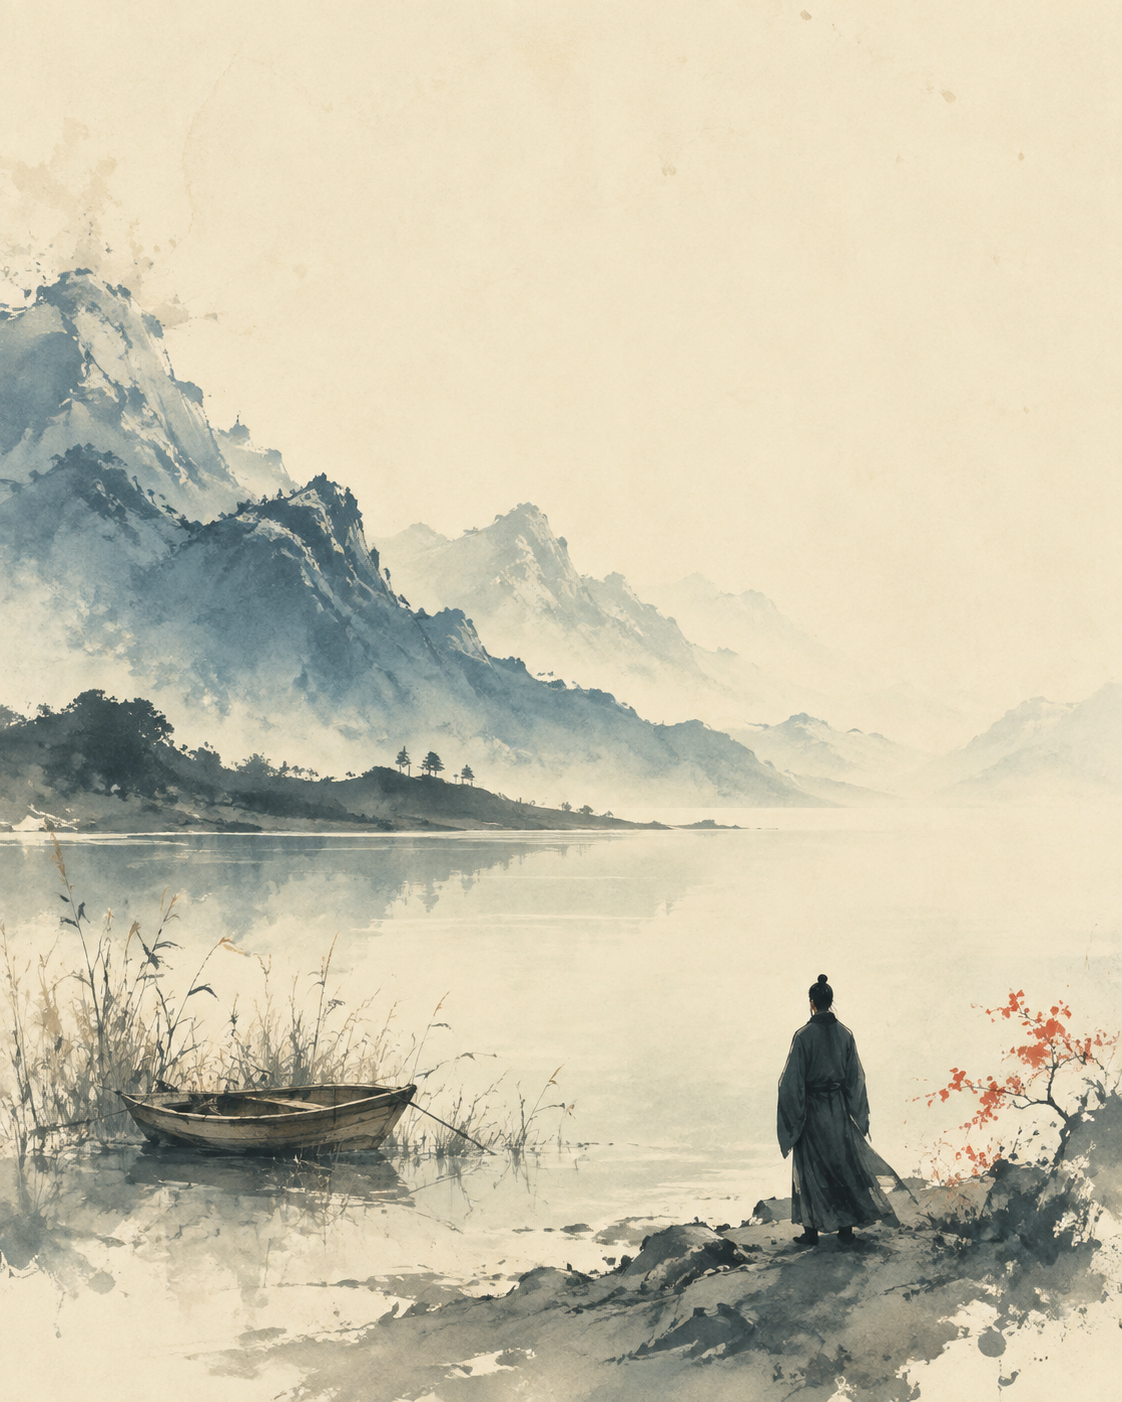
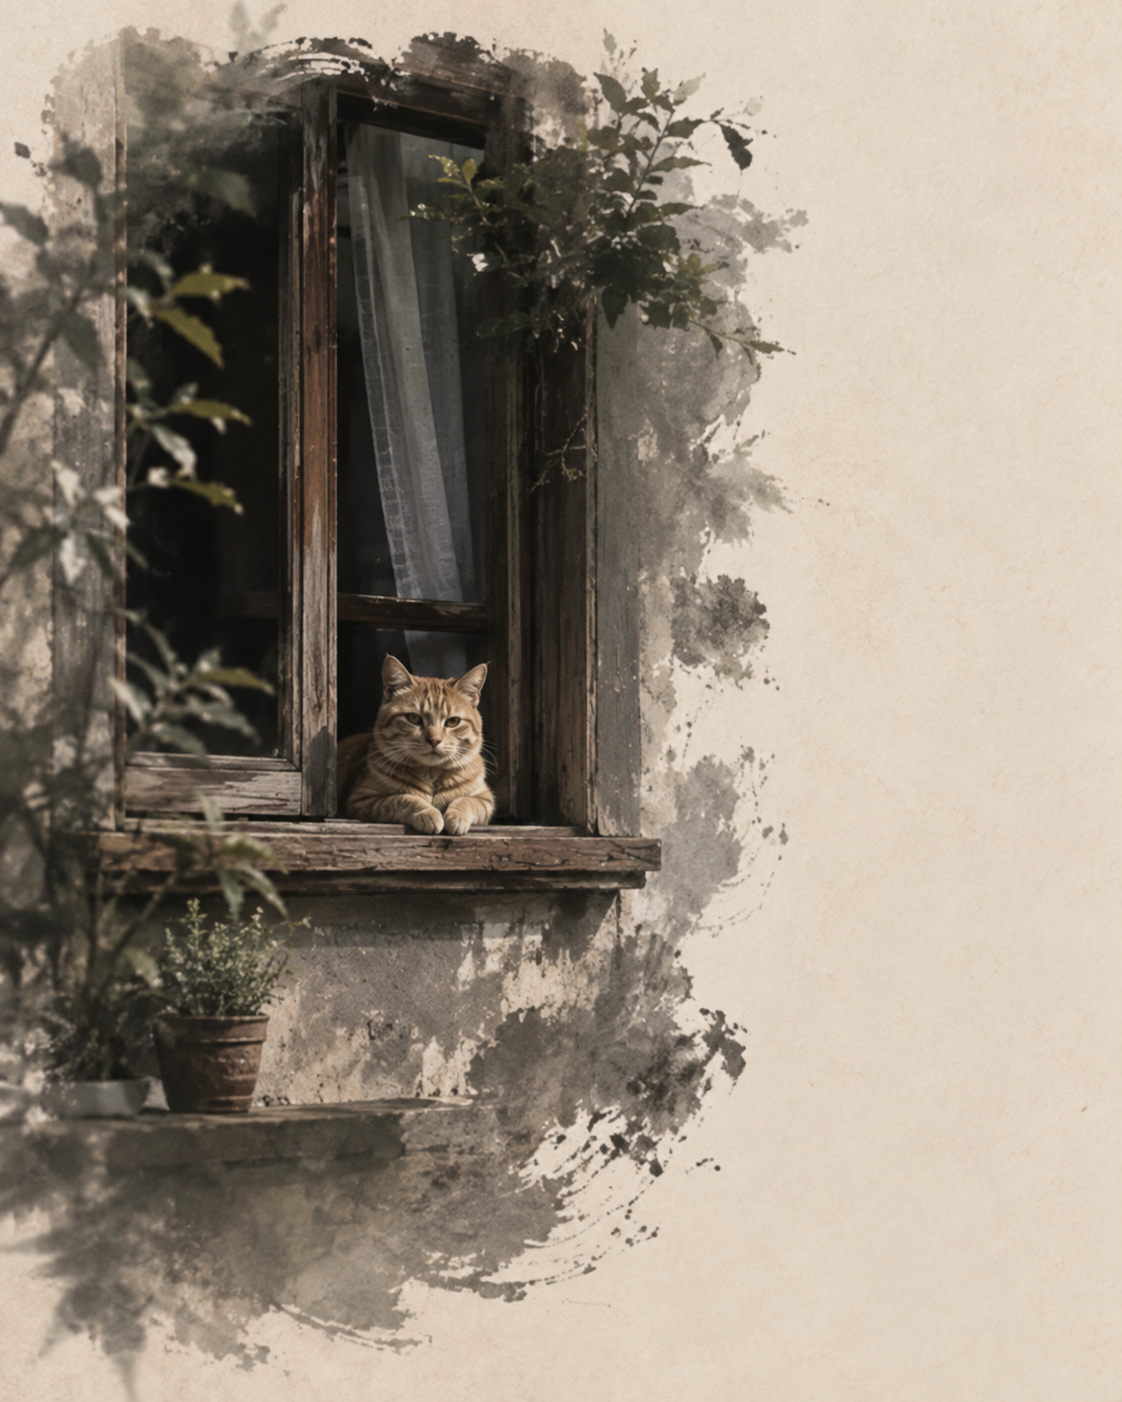
fix: preserve real photos in Guofeng profile

diff --git a/src/moments_to_pages/expression_profiles.py b/src/moments_to_pages/expression_profiles.py
@@ -386,29 +386,31 @@ CHINESE_PHOTO_EDITORIAL: dict[str, Any] = {
 }
 
 CHINESE_INK_POETRY: dict[str, Any] = {
-    "render_mode": "full-redraw",
-    "output_medium": "contemporary Chinese ink-and-paper poem image",
+    "render_mode": "photo-anchor-ink-transition",
+    "output_medium": "contemporary Chinese photographic ink-and-paper poem image",
     "design_tokens": {
         "palette": ["warm-paper", "ink-black", "mist-gray", "seal-red"],
-        "composition": {"negative_space": "high", "asymmetry": "high", "focal_subject": "source-locked"},
+        "composition": {"negative_space": "high", "asymmetry": "high", "photographic_anchor": "55-70%", "focal_subject": "source-locked"},
         "texture": {"paper": "xuan-inspired", "ink_bleed": "controlled", "wash_edges": "varied"},
         "typography": {"orientation": ["vertical", "horizontal"], "caption_density": "low", "source": "user-supplied"},
     },
     "subject_fidelity": [
-        "Repaint the supplied photo as one coherent ink-and-color-wash scene while preserving the recognizable subject, pose, architecture, horizon, and spatial evidence.",
+        "Keep the recognizable subject, pose, window, furniture, architecture, and the user's actual home or location photographic; preserve their identity, perspective, scale, light, and spatial relationships.",
     ],
     "transformation_policy": [
-        "Use ink wash, light color wash, rice-paper texture, and restrained brush structure across the scene; transform medium, not identity or event.",
+        "Keep the source photograph as the dominant visual anchor and transform only selected peripheral regions into ink wash, light color wash, dry brush, and warm paper.",
+        "Derive every ink passage from the supplied room, wall, window shadow, plant, landscape, or other visible source evidence; do not replace the user's setting with an invented Chinese landscape.",
         "The poem or title is a user-supplied caption rendered later by the deterministic presentation layer, never invented or rasterized by the image model.",
     ],
     "composition": [
-        "Build a calm vertical scroll-like composition with one source-derived focal scene, large reserved paper space, asymmetrical brush mass, and a single restrained vermilion accent only when present in the brief.",
+        "Build one integrated photographic field whose outer edges dissolve organically into ink and warm paper; retain roughly 55–70% legible photographic evidence and avoid a rectangular pasted-photo boundary.",
+        "Use large quiet paper space, asymmetrical brush mass, and a single restrained vermilion accent only when explicitly requested.",
         "Let the supplied caption occupy the requested quiet text zone; do not crowd the image with ornaments.",
     ],
-    "lighting": ["Translate source light into ink density and transparent color washes while retaining its direction and atmospheric depth."],
-    "material": ["Use fibrous warm paper, pooled ink edges, dry-brush texture, transparent mineral color, and selective unfinished paper; avoid glossy digital gradients."],
-    "exclusions": ["No generated poem, pseudo-Chinese glyphs, invented historical quotations, famous-poet attribution, imperial costume, dragons, clouds, gold ornament, or named-artist imitation."],
-    "output": ["Return a single finished Chinese ink-poetry image with no visible text; the user-supplied poem is added afterward as deterministic typography."],
+    "lighting": ["Preserve the source light on the photographic subject and continue that same direction through ink density and transparent washes."],
+    "material": ["Keep photographic fur, skin, fabric, wood, wall, and architectural texture where identity and place live; transition only selected edges into fibrous warm paper, pooled ink, dry brush, and transparent wash."],
+    "exclusions": ["No full-scene repaint, photo cutout, rectangular collage frame, unrelated mountains, invented bamboo forest, generated poem, pseudo-Chinese glyphs, historical quotation attribution, imperial costume, dragons, clouds, gold ornament, or named-artist imitation."],
+    "output": ["Return one integrated photo-and-ink image with no visible text; the real subject and its own setting must remain recognizable, and the user-supplied poem is added afterward as deterministic typography."],
 }
 
 SELECTIVE_MATERIAL_RELIEF: dict[str, Any] = {

diff --git a/tests/test_prompt_compiler.py b/tests/test_prompt_compiler.py
@@ -242,7 +242,10 @@ def test_new_systems_and_profiles_have_distinct_director_rules(tmp_path: Path):
 
     ink_poetry = compile_manifest(cards, "journey-taxonomy", source_root=tmp_path, expression_profile="chinese-ink-poetry")
     ink_prompt = ink_poetry["prompts"][0]["compiled_prompt"]
-    assert "contemporary Chinese ink-and-paper poem image" in ink_prompt
+    assert "contemporary Chinese photographic ink-and-paper poem image" in ink_prompt
+    assert "dominant visual anchor" in ink_prompt
+    assert "actual home or location photographic" in ink_prompt
+    assert "No full-scene repaint" in ink_prompt
     assert "user-supplied poem" in ink_prompt
     assert "no visible text" in ink_prompt
 

diff --git a/README.md b/README.md
@@ -55,11 +55,11 @@ Check compatible combinations with `scene-card-studio profiles`. The compiler re
 
 ## After-only Director Gallery · v0.7
 
-The public showcase leads with the finished After image. These four new cases are designed to make the visual difference obvious: a real subject with a relief environment, a restrained ink-and-paper editorial, a sparse travel-zine page, and a Guofeng ink-poetry image with deterministic verse typography. Older Before/After evidence cases remain below and are not deleted.
+The public showcase leads with the finished After image. These four new cases are designed to make the visual difference obvious: a real subject with a relief environment, a restrained ink-and-paper editorial, a sparse travel-zine page, and a source-faithful Guofeng photo whose real subject and home dissolve selectively into ink before deterministic verse typography is added. Older Before/After evidence cases remain below and are not deleted.
 
 | Selective Material Relief | Chinese Photo Editorial | Travel Zine | Chinese Ink Poetry |
 | --- | --- | --- | --- |
-| [![Real boat with relief mountains](examples/cases/v0.7-director-gallery/after/selective-material-relief.png)](examples/cases/v0.7-director-gallery/after/selective-material-relief.png) | [![Ink-and-paper coastal photo editorial](examples/cases/v0.7-director-gallery/after/chinese-photo-editorial.png)](examples/cases/v0.7-director-gallery/after/chinese-photo-editorial.png) | [![Sparse travel zine railway image](examples/cases/v0.7-director-gallery/after/travel-zine.png)](examples/cases/v0.7-director-gallery/after/travel-zine.png) | [![Chinese ink landscape with poem](examples/cases/v0.7-director-gallery/after/chinese-ink-poetry-presented.svg)](examples/cases/v0.7-director-gallery/after/chinese-ink-poetry-presented.svg) |
+| [![Real boat with relief mountains](examples/cases/v0.7-director-gallery/after/selective-material-relief.png)](examples/cases/v0.7-director-gallery/after/selective-material-relief.png) | [![Ink-and-paper coastal photo editorial](examples/cases/v0.7-director-gallery/after/chinese-photo-editorial.png)](examples/cases/v0.7-director-gallery/after/chinese-photo-editorial.png) | [![Sparse travel zine railway image](examples/cases/v0.7-director-gallery/after/travel-zine.png)](examples/cases/v0.7-director-gallery/after/travel-zine.png) | [![Photographic cat and home transitioning into Chinese ink with poem](examples/cases/v0.7-director-gallery/after/chinese-ink-poetry-presented.svg)](examples/cases/v0.7-director-gallery/after/chinese-ink-poetry-presented.svg) |
 
 [Open the v0.7 After-only gallery and asset records](examples/cases/v0.7-director-gallery/README.md)
 
@@ -75,9 +75,9 @@ These are the most visually distinctive finished images in the repository. The c
 
 #### Chinese Ink Poetry · Guofeng
 
-Use `chinese-ink-poetry` when the desired result is explicitly Chinese/Guofeng: repaint the supplied photo in ink and rice-paper language, then add a user-supplied poem or short caption as deterministic vertical typography.
+Use `chinese-ink-poetry` when the desired result is explicitly Chinese/Guofeng: keep the photographed subject and the user's own setting recognizable, let only source-derived peripheral regions dissolve into ink and warm paper, then add a user-supplied poem or short caption as deterministic vertical typography.
 
-[![Chinese ink landscape with poem overlay](examples/cases/v0.7-director-gallery/after/chinese-ink-poetry-presented.svg)](examples/cases/v0.7-director-gallery/after/chinese-ink-poetry-presented.svg)
+[![Photographic cat at its home window with source-derived ink treatment and poem overlay](examples/cases/v0.7-director-gallery/after/chinese-ink-poetry-presented.svg)](examples/cases/v0.7-director-gallery/after/chinese-ink-poetry-presented.svg)
 
 ## Before / After
 

diff --git a/README.zh-CN.md b/README.zh-CN.md
@@ -55,11 +55,11 @@ scene-card-studio direct photos/portrait.jpg \
 
 ## v0.7 After-only 视觉导演画廊
 
-首页先展示完成后的 After，不再要求公开展示 Before/After 对照。四组新案例分别强调真实主体与环境浮雕、克制水墨纸张编辑、留白充足的旅行 Zine，以及带确定性诗句排版的国风水墨成片。旧的 Before/After 证据案例仍保留在下方，没有删除。
+首页先展示完成后的 After，不再要求公开展示 Before/After 对照。四组新案例分别强调真实主体与环境浮雕、克制水墨纸张编辑、留白充足的旅行 Zine，以及保留真实主体和自家环境、再让画面边缘过渡成水墨并叠加诗句的国风照片。旧的 Before/After 证据案例仍保留在下方，没有删除。
 
 | Selective Material Relief｜选择性材质浮雕 | Chinese Photo Editorial｜水墨摄影编辑 | Travel Zine｜旅行 Zine | Chinese Ink Poetry｜国风诗意水墨 |
 | --- | --- | --- | --- |
-| [![真实小船与浮雕山体](examples/cases/v0.7-director-gallery/after/selective-material-relief.png)](examples/cases/v0.7-director-gallery/after/selective-material-relief.png) | [![水墨纸张海岸摄影编辑](examples/cases/v0.7-director-gallery/after/chinese-photo-editorial.png)](examples/cases/v0.7-director-gallery/after/chinese-photo-editorial.png) | [![留白旅行 Zine 铁路画面](examples/cases/v0.7-director-gallery/after/travel-zine.png)](examples/cases/v0.7-director-gallery/after/travel-zine.png) | [![国风水墨山湖与诗句](examples/cases/v0.7-director-gallery/after/chinese-ink-poetry-presented.svg)](examples/cases/v0.7-director-gallery/after/chinese-ink-poetry-presented.svg) |
+| [![真实小船与浮雕山体](examples/cases/v0.7-director-gallery/after/selective-material-relief.png)](examples/cases/v0.7-director-gallery/after/selective-material-relief.png) | [![水墨纸张海岸摄影编辑](examples/cases/v0.7-director-gallery/after/chinese-photo-editorial.png)](examples/cases/v0.7-director-gallery/after/chinese-photo-editorial.png) | [![留白旅行 Zine 铁路画面](examples/cases/v0.7-director-gallery/after/travel-zine.png)](examples/cases/v0.7-director-gallery/after/travel-zine.png) | [![真实猫与自家窗台逐渐过渡为水墨并配诗句](examples/cases/v0.7-director-gallery/after/chinese-ink-poetry-presented.svg)](examples/cases/v0.7-director-gallery/after/chinese-ink-poetry-presented.svg) |
 
 [打开 v0.7 After-only 画廊与资产记录](examples/cases/v0.7-director-gallery/README.md)
 
@@ -75,9 +75,9 @@ scene-card-studio direct photos/portrait.jpg \
 
 #### Chinese Ink Poetry｜国风诗意
 
-如果你要的是明确的国风照片成片，使用 `chinese-ink-poetry`：先把照片统一转成水墨与宣纸视觉，再把用户提供的诗句或短文案用确定性的竖排文字层叠加。诗句不会交给图像模型生成。
+如果你要的是明确的国风照片成片，使用 `chinese-ink-poetry`：猫、人、窗台、家具和自己家的空间仍是可辨认的真实照片，只让照片边缘以及来源于原场景的墙面、植物、窗影等区域逐渐过渡成水墨与宣纸，再把用户提供的诗句或短文案用确定性的竖排文字层叠加。不会凭空换成山水背景，诗句也不会交给图像模型生成。
 
-[![水墨山湖与诗句叠加](examples/cases/v0.7-director-gallery/after/chinese-ink-poetry-presented.svg)](examples/cases/v0.7-director-gallery/after/chinese-ink-poetry-presented.svg)
+[![真实猫与自家窗台逐渐过渡为水墨并配诗句](examples/cases/v0.7-director-gallery/after/chinese-ink-poetry-presented.svg)](examples/cases/v0.7-director-gallery/after/chinese-ink-poetry-presented.svg)
 
 ## Before / After 首页案例
 

diff --git a/skills/scene-card-studio/SKILL.md b/skills/scene-card-studio/SKILL.md
@@ -25,7 +25,7 @@ Build a visual story from the user's photographs without imitating a named artis
    - `journey-taxonomy` when the goal is to classify visible place elements by semantic role. Keep one dominant place image, omit absent categories, use no duplicated inset photo, sticker column, connector line, or copied reference composition;
    - `street-reportage` for observed public gestures and environmental context;
    - `fashion-editorial` for pose, garment construction, movement, and shot-scale rhythm.
-   - v0.7 profiles add `travel-zine` (restrained source-bound travel page), `chinese-photo-editorial` (contemporary ink-and-paper photo treatment without invented motifs), and `selective-material-relief` (real photographic subject with an environment-only relief transformation). `chinese-ink-poetry` is the explicit Guofeng option: repaint the supplied scene in ink/paper language and place only the user's supplied poem or caption in the deterministic typography layer. These are visual expression profiles, not new Narrative Systems.
+   - v0.7 profiles add `travel-zine` (restrained source-bound travel page), `chinese-photo-editorial` (contemporary ink-and-paper photo treatment without invented motifs), and `selective-material-relief` (real photographic subject with an environment-only relief transformation). `chinese-ink-poetry` is the explicit Guofeng option: keep the real subject and the user's own setting photographic, dissolve only source-derived peripheral regions into ink/paper, and place only the user's supplied poem or caption in the deterministic typography layer. These are visual expression profiles, not new Narrative Systems.
    Run `scene-card-studio profiles --system SYSTEM_ID` when available, and use only a Profile listed for the selected system.
 6. Choose the source mode before choosing the output tier:
    - **Single-photo mode**: select one compatible Narrative System and Expression Profile, then produce exactly one standalone After for the supplied Before. Do not require a sequence and do not substitute a border, contact sheet, page mockup, or decorative collage for transformation.

diff --git a/examples/cases/v0.7-director-gallery/README.md b/examples/cases/v0.7-director-gallery/README.md
@@ -7,7 +7,9 @@ This gallery is intentionally After-only for public presentation. The four image
 | [Selective Material Relief](after/selective-material-relief.png) | Memory Atlas | `selective-material-relief` | real photographic boat + environment-only shallow relief |
 | [Chinese Photo Editorial](after/chinese-photo-editorial.png) | Minimal Editorial | `chinese-photo-editorial` | restrained ink/paper atmosphere with a photographic anchor |
 | [Travel Zine](after/travel-zine.png) | Travel Journal | `travel-zine` | one source-bound journey node, sparse route line, quiet paper field |
-| [Chinese Ink Poetry](after/chinese-ink-poetry-presented.svg) | Memory Atlas | `chinese-ink-poetry` | full Guofeng ink repaint with user-supplied poem overlay |
+| [Chinese Ink Poetry](after/chinese-ink-poetry-presented.svg) | Memory Atlas | `chinese-ink-poetry` | real photographic cat and its home remain legible while source-derived edges dissolve into ink; user-supplied poem overlay |
+
+The previously published full-redraw study remains available as [Chinese Ink Poetry · full-redraw study](after/chinese-ink-poetry-full-redraw-presented.svg), but it is no longer the behavior represented by `chinese-ink-poetry`.
 
 These are original repository examples. They use general visual mechanisms and do not imitate a named artist, studio, publication, or third-party project's protected assets or layout.
 

diff --git a/skills/scene-card-studio/references/systems-and-profiles.md b/skills/scene-card-studio/references/systems-and-profiles.md
@@ -45,7 +45,7 @@ Choose a Narrative System for how the photographs are read. Choose an Expression
 | `travel-zine` | Memory Atlas, Family Chronicle, Travel Journal, Journey Taxonomy | restrained source-bound travel page with one memory node, sparse route evidence, and generous whitespace |
 | `chinese-photo-editorial` | Quiet Editorial, Memory Atlas, Family Chronicle, Museum Catalogue | contemporary ink-and-paper photo editorial; motifs are source-supported or explicitly requested, never automatic |
 | `selective-material-relief` | Memory Atlas, Family Chronicle, Travel Journal, Journey Taxonomy | real photographic subject remains intact while only the authorized environment becomes a continuous shallow relief |
-| `chinese-ink-poetry` | Quiet Editorial, Memory Atlas, Family Chronicle, Museum Catalogue, Travel Journal, Journey Taxonomy | explicit Guofeng ink-and-paper repaint with user-supplied poem/caption applied later as deterministic typography |
+| `chinese-ink-poetry` | Quiet Editorial, Memory Atlas, Family Chronicle, Museum Catalogue, Travel Journal, Journey Taxonomy | real photographic subject and actual setting dissolve selectively into source-derived ink/paper, with user-supplied poem/caption applied later as deterministic typography |
 
 `full-watercolor-memory` remains a Memory Atlas compatibility alias for `watercolor-chronicle`.
 

diff --git a/skills/scene-card-studio/references/prompt-compiler.md b/skills/scene-card-studio/references/prompt-compiler.md
@@ -21,7 +21,7 @@ For `memory-atlas`, choose deliberately:
 - `travel-zine` creates a sparse source-bound travel page; it may use only supplied route, date, location, ticket, map, paper, or handwriting evidence.
 - `selective-material-relief` keeps the main subject photographic and transforms only an authorized environment into a continuous relief, with source light and perspective preserved.
 - `chinese-photo-editorial` uses restrained ink and uncoated paper as an editorial language; bamboo, seals, mountains, calligraphy, costume, and other motifs are never automatic.
-- `chinese-ink-poetry` is the explicit Guofeng mode: repaint the supplied scene in one ink-and-paper medium, then apply a user-supplied poem or caption in the deterministic presentation layer. Never ask the image model to generate Chinese text.
+- `chinese-ink-poetry` is the explicit Guofeng photo mode: preserve the real subject and its actual setting as the dominant photographic anchor, transition only source-derived peripheral regions into ink and paper, then apply a user-supplied poem or caption in the deterministic presentation layer. Never invent a replacement landscape or ask the image model to generate Chinese text.
 
 `full-watercolor-memory` remains a compatibility alias. Prefer the canonical `watercolor-chronicle` name in new Manifests.
 

diff --git a/CHANGELOG.md b/CHANGELOG.md
@@ -7,7 +7,7 @@ All notable changes to Scene Card Studio are documented here. Versions follow se
 ### Added
 
 - v0.7 After-only Director Gallery with `travel-zine`, `chinese-photo-editorial`, `selective-material-relief`, and `chinese-ink-poetry` examples.
-- `chinese-ink-poetry` expression profile and `ink-poetry` presentation style for Guofeng photo repainting with user-supplied verse overlay.
+- `chinese-ink-poetry` expression profile and `ink-poetry` presentation style for source-faithful Guofeng photo/ink transitions with user-supplied verse overlay.
 - Structured `expression_profile_tokens` in Prompt Manifests for composition, palette, texture, and typography decisions.
 - Scene Card direction fields for negative space, text zone, typography orientation, material transition, and source-light/perspective preservation.
 
